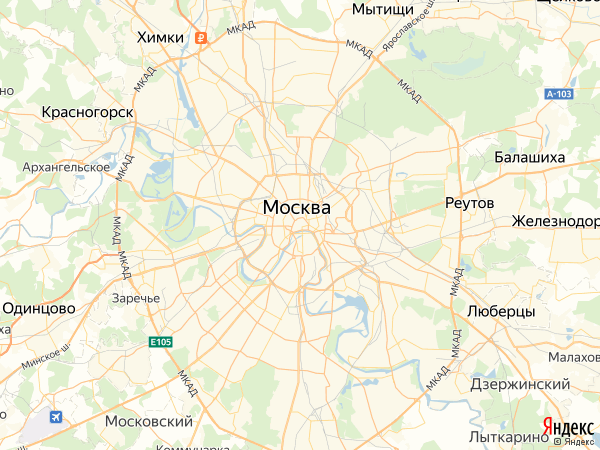
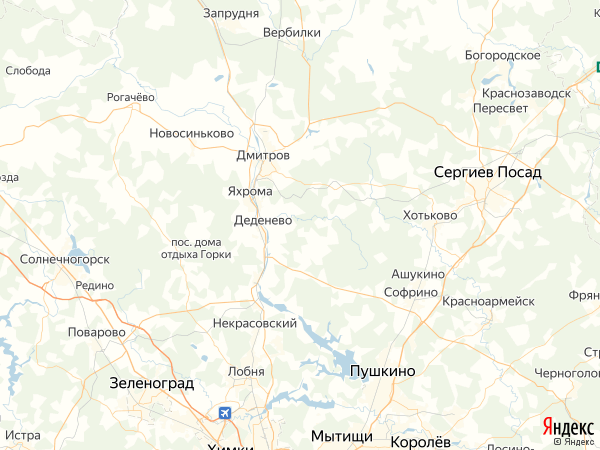
Перемещение карты

diff --git a/mapsUI.py b/mapsUI.py
@@ -10,14 +10,14 @@
 from PyQt5 import QtCore, QtGui, QtWidgets
 
 
-class MapsMainWindow(object):
+class SearchWindow(object):
     def setupUi(self, MainWindow):
         MainWindow.setObjectName("MainWindow")
-        MainWindow.resize(800, 600)
+        MainWindow.resize(800, 167)
         self.centralwidget = QtWidgets.QWidget(MainWindow)
         self.centralwidget.setObjectName("centralwidget")
         self.horizontalLayoutWidget = QtWidgets.QWidget(self.centralwidget)
-        self.horizontalLayoutWidget.setGeometry(QtCore.QRect(10, 499, 781, 51))
+        self.horizontalLayoutWidget.setGeometry(QtCore.QRect(10, 60, 781, 51))
         self.horizontalLayoutWidget.setObjectName("horizontalLayoutWidget")
         self.horizontalLayout = QtWidgets.QHBoxLayout(self.horizontalLayoutWidget)
         self.horizontalLayout.setContentsMargins(0, 0, 0, 0)
@@ -48,18 +48,14 @@ class MapsMainWindow(object):
         self.pushButton = QtWidgets.QPushButton(self.horizontalLayoutWidget)
         self.pushButton.setObjectName("pushButton")
         self.horizontalLayout.addWidget(self.pushButton)
-        self.label_4 = QtWidgets.QLabel(self.centralwidget)
-        self.label_4.setGeometry(QtCore.QRect(175, 20, 450, 381))
-        self.label_4.setText("")
-        self.label_4.setObjectName("label_4")
         self.lineEdit_3 = QtWidgets.QLineEdit(self.centralwidget)
-        self.lineEdit_3.setGeometry(QtCore.QRect(220, 449, 491, 41))
+        self.lineEdit_3.setGeometry(QtCore.QRect(220, 10, 491, 41))
         font = QtGui.QFont()
         font.setPointSize(14)
         self.lineEdit_3.setFont(font)
         self.lineEdit_3.setObjectName("lineEdit_3")
         self.pushButton_2 = QtWidgets.QPushButton(self.centralwidget)
-        self.pushButton_2.setGeometry(QtCore.QRect(10, 450, 201, 41))
+        self.pushButton_2.setGeometry(QtCore.QRect(10, 11, 201, 41))
         font = QtGui.QFont()
         font.setPointSize(14)
         self.pushButton_2.setFont(font)
@@ -84,3 +80,36 @@ class MapsMainWindow(object):
         self.label_3.setText(_translate("MainWindow", "Долгота"))
         self.pushButton.setText(_translate("MainWindow", "Найти"))
         self.pushButton_2.setText(_translate("MainWindow", "Поиск по адресу"))
+
+class MapWindow(object):
+    def setupUi(self, MainWindow):
+        MainWindow.setObjectName("MainWindow")
+        MainWindow.resize(621, 562)
+        self.centralwidget = QtWidgets.QWidget(MainWindow)
+        self.centralwidget.setObjectName("centralwidget")
+        self.label = QtWidgets.QLabel(self.centralwidget)
+        self.label.setGeometry(QtCore.QRect(10, 10, 600, 450))
+        self.label.setText("")
+        self.label.setObjectName("label")
+        self.pushButton = QtWidgets.QPushButton(self.centralwidget)
+        self.pushButton.setGeometry(QtCore.QRect(10, 480, 601, 31))
+        font = QtGui.QFont()
+        font.setPointSize(11)
+        self.pushButton.setFont(font)
+        self.pushButton.setObjectName("pushButton")
+        MainWindow.setCentralWidget(self.centralwidget)
+        self.menubar = QtWidgets.QMenuBar(MainWindow)
+        self.menubar.setGeometry(QtCore.QRect(0, 0, 621, 21))
+        self.menubar.setObjectName("menubar")
+        MainWindow.setMenuBar(self.menubar)
+        self.statusbar = QtWidgets.QStatusBar(MainWindow)
+        self.statusbar.setObjectName("statusbar")
+        MainWindow.setStatusBar(self.statusbar)
+
+        self.retranslateUi(MainWindow)
+        QtCore.QMetaObject.connectSlotsByName(MainWindow)
+
+    def retranslateUi(self, MainWindow):
+        _translate = QtCore.QCoreApplication.translate
+        MainWindow.setWindowTitle(_translate("MainWindow", "MainWindow"))
+        self.pushButton.setText(_translate("MainWindow", "Изменить данные"))

diff --git a/main.py b/main.py
@@ -5,11 +5,11 @@ import requests
 from PyQt5.QtGui import QPixmap
 from PyQt5.QtWidgets import QApplication, QWidget, QLabel, QMainWindow
 from PyQt5.QtCore import Qt
-from mapsUI import MapsMainWindow
-from request_by_coords import request
+from mapsUI import SearchWindow
+from request_by_coords import request, get_coord
 
 
-class Main(QMainWindow, MapsMainWindow):
+class Main(QMainWindow, SearchWindow):
     def __init__(self):
         super().__init__()
         self.setupUi(self)
@@ -36,20 +36,20 @@ class Main(QMainWindow, MapsMainWindow):
             self.size *= 0.91
             self.show_map()
         elif event.key() == Qt.Key_Up:
-            self.lineEdit.setText(
-                str((float(self.lineEdit.text()) + self.size + 90) % 180 - 90))
+            l1, l2 = self.coords
+            self.coords = (float(l1), (float(l2) + self.size + 90) % 180 - 90)
             self.show_map()
         elif event.key() == Qt.Key_Down:
-            self.lineEdit.setText(
-                str((float(self.lineEdit.text()) - self.size + 90) % 180 - 90))
+            l1, l2 = self.coords
+            self.coords = (float(l1), (float(l2) - self.size + 90) % 180 - 90)
             self.show_map()
         elif event.key() == Qt.Key_Right:
-            self.lineEdit_2.setText(str(
-                (float(self.lineEdit_2.text()) + self.size + 180) % 360 - 180))
+            l1, l2 = self.coords
+            self.coords = ((float(l1) + self.size + 180) % 360 - 180, float(l2))
             self.show_map()
         elif event.key() == Qt.Key_Left:
-            self.lineEdit_2.setText(str(
-                (float(self.lineEdit_2.text()) - self.size + 180) % 360 - 180))
+            l1, l2 = self.coords
+            self.coords = ((float(l1) - self.size + 180) % 360 - 180, float(l2))
             self.show_map()
 
 

diff --git a/request_by_coords.py b/request_by_coords.py
@@ -6,7 +6,6 @@ def request(coords, size):
         "http://static-maps.yandex.ru/1.x/?ll={},{}&spn={},{}&l=map".format(coords[0], coords[1],
                                                                             size, size)
     response = requests.get(map_request)
-
     map_file = "map.png"
     with open(map_file, "wb") as file:
         file.write(response.content)
